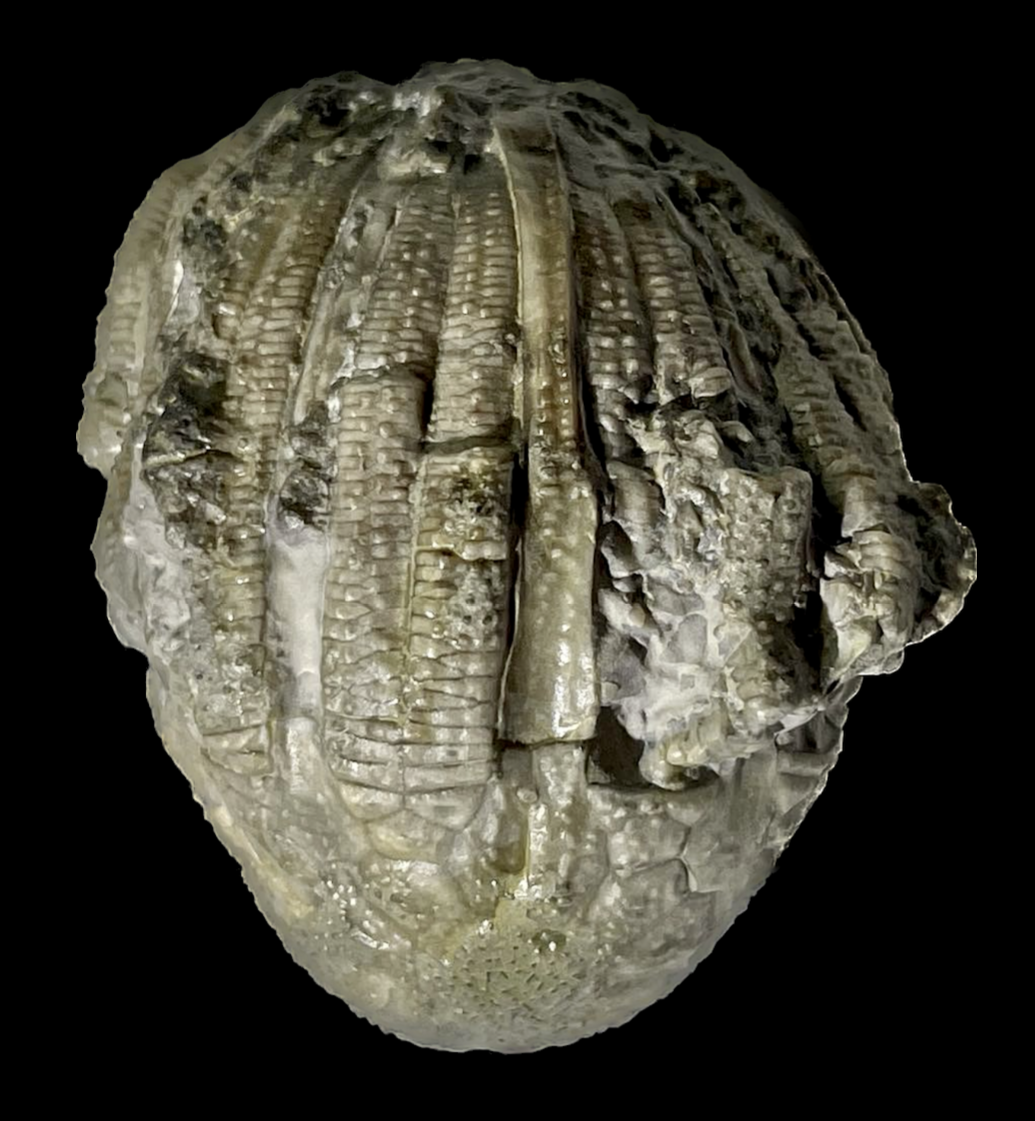
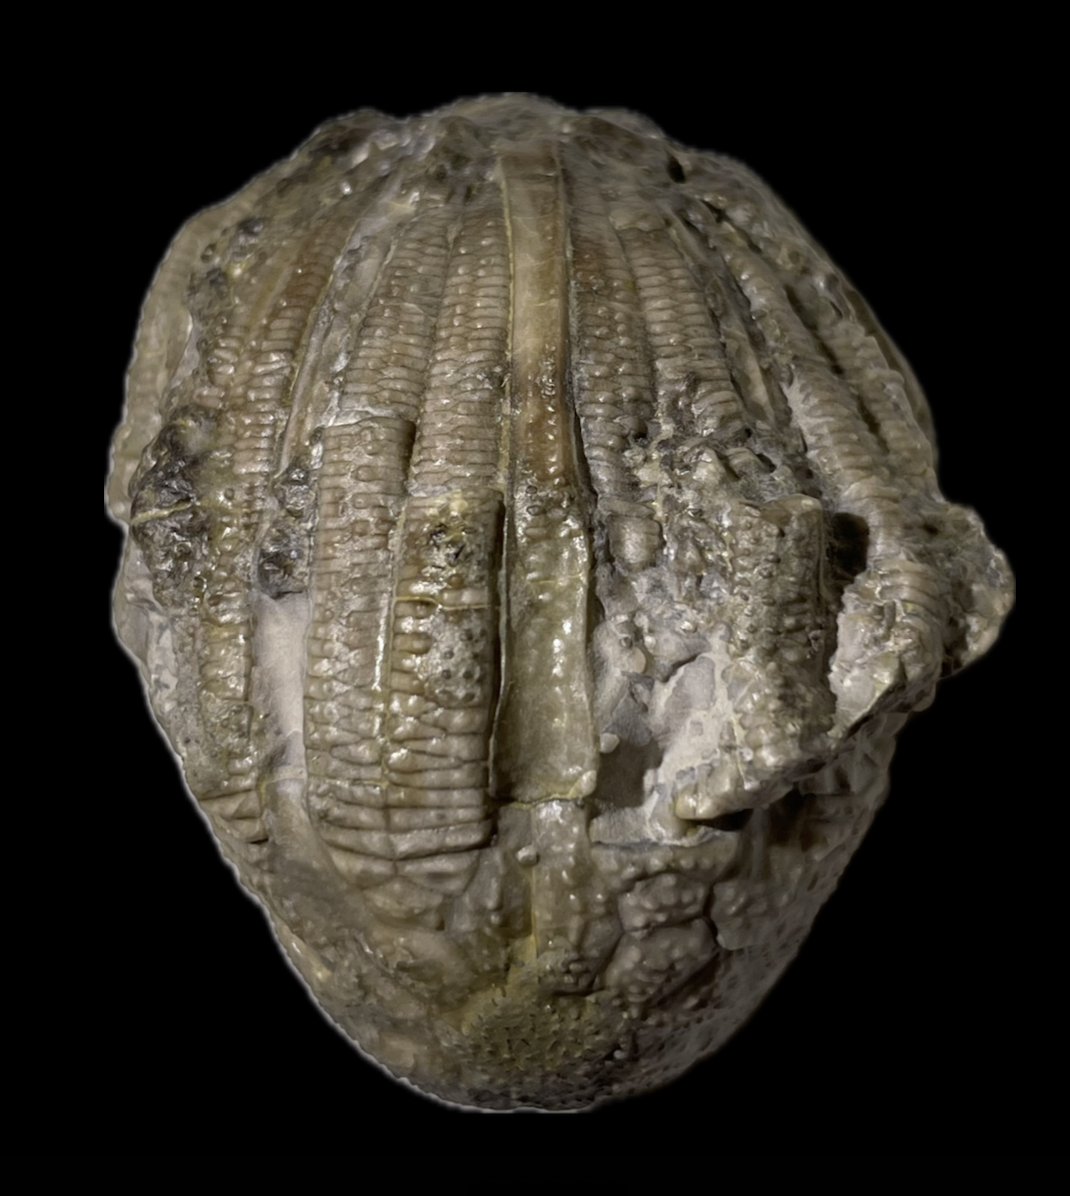
edit spec

diff --git a/crinoids/silurian/457-Cri-Sil-Wal-Euc.html b/crinoids/silurian/457-Cri-Sil-Wal-Euc.html
@@ -30,7 +30,7 @@
           </p>
         </th>
         <th style="text-align: center;">
-            <img src="457-Cri-Sil-Wal-Euc_1.PNG"><img src="457-Cri-Sil-Wal-Euc_2.PNG">
+            <img src="457-Cri-Sil-Wal-Euc_1.PNG"><img src="457-Cri-Sil-Wal-Euc_2.PNG"><img src="457-Cri-Sil-Wal-Euc_3.PNG">
         </th>
       </tr>
     </table>

diff --git a/index.html b/index.html
@@ -32,7 +32,7 @@
     </p>
     <h3>
         <span style="color: red">&#10043;</span> = Recently (<7 days) added/updated<br>
-        Last Updated: 2024-7-19
+        Last Updated: 2024-7-20
     </h3>
     <br>
         
